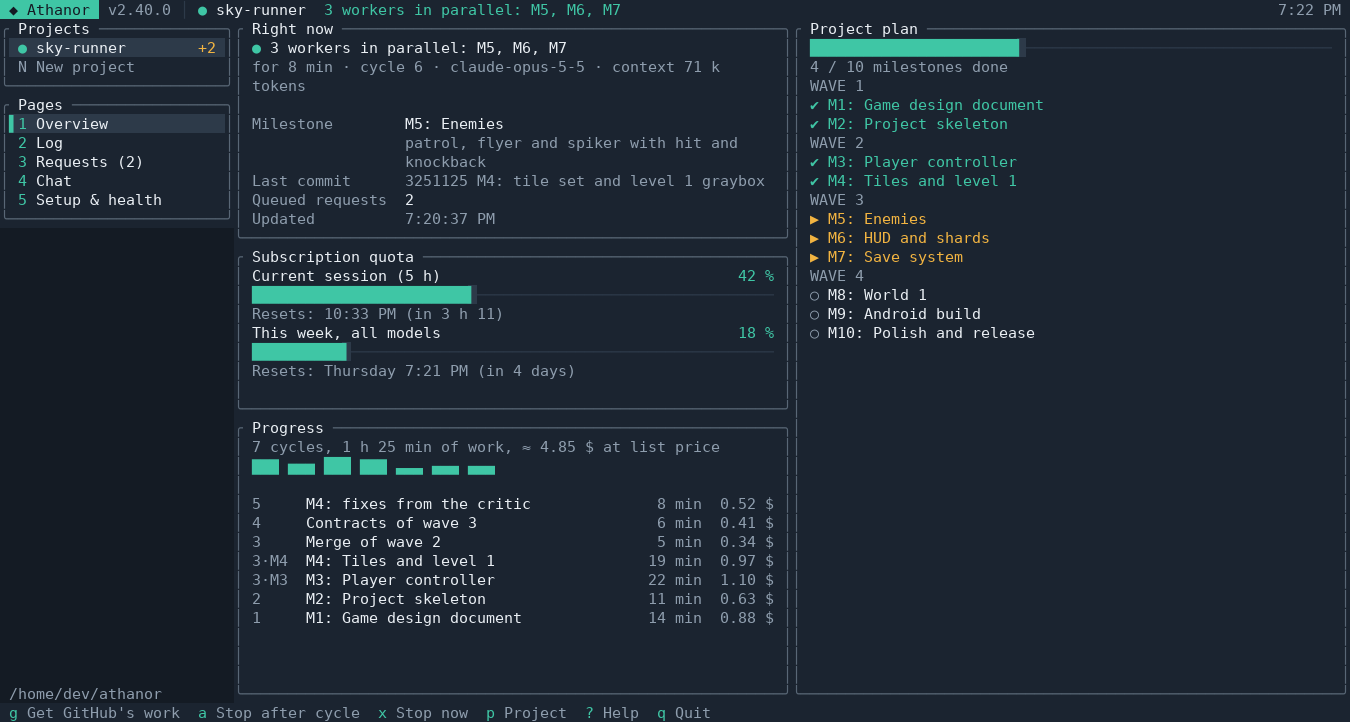
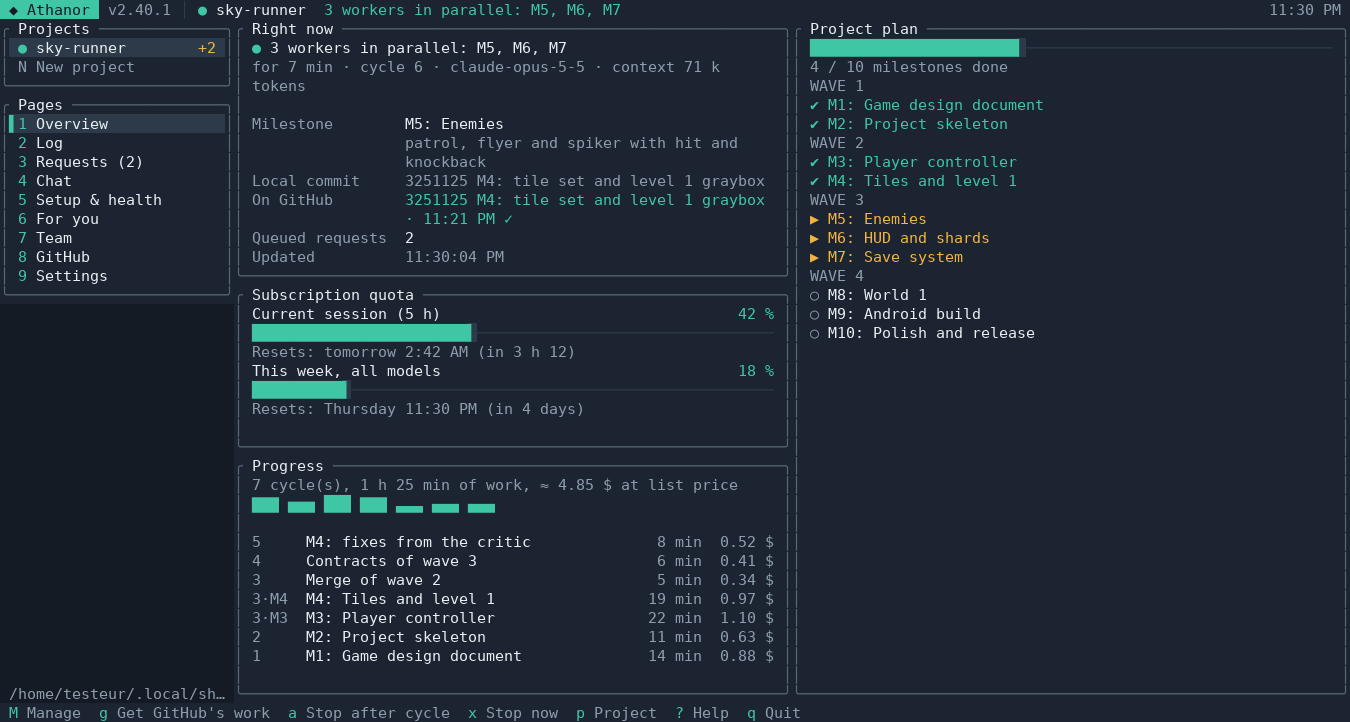
Athanor 2.40.1: push at every milestone, GitHub's last commit in the Overview, terminal keys and Enter fixes, Windows fixes

diff --git a/app/commandes.go b/app/commandes.go
@@ -16,7 +16,7 @@ import (
 )
 
 // versionAthanor: kept equal to ProductVersion of winres/athanor.rc (TestVersionAlignee).
-const versionAthanor = "2.40.0"
+const versionAthanor = "2.40.1"
 
 type sousCommande struct {
 	aide  string

diff --git a/README.fr.md b/README.fr.md
@@ -311,14 +311,14 @@ L'interface est traduite en anglais, français, espagnol, allemand, italien et p
 
 ## Dans un terminal
 
-<img src="docs/images/terminal.png" alt="Athanor dans un terminal : les projets et les pages à gauche, l'état du pilote, le quota de l'abonnement et les cycles déjà faits au milieu, le plan en vagues à droite">
+<img src="docs/images/terminal.png" alt="Athanor dans un terminal : les projets et les pages à gauche, l'état du pilote, le dernier commit de cet ordinateur et sur GitHub, le quota de l'abonnement et les cycles déjà faits au milieu, le plan en vagues à droite">
 
 Sous Linux et macOS, Athanor tourne aussi dans le terminal, comme btop ou htop : le même Athanor que sa fenêtre, sur le même serveur, donc les deux montrent toujours la même chose. Fait pour un serveur joint en SSH, un Linux sans bureau, ou simplement votre propre terminal.
 
 - **L'ouvrir** : `./athanor tui` dans le dossier d'Athanor (ou le fichier téléchargé : `./Athanor-Linux-x64 tui`). En SSH (`SSH_CONNECTION` défini), ou sur un Linux sans écran (ni `DISPLAY` ni `WAYLAND_DISPLAY`), `./athanor` seul l'ouvre. `./athanor gui` ouvre la fenêtre quoi qu'en dise la détection.
 - **Sur un serveur** : lancez Athanor avec un utilisateur normal, pas en root : Claude Code refuse de travailler en root (Installation & santé le dit, et *Démarrer* refuse). Sur un VPS neuf : `adduser NOM`, `usermod -aG sudo NOM`, connectez-vous en `NOM`, puis `./Athanor-Linux-x64`.
 - **Avec Athanor déjà ouvert** (sa fenêtre, ou un autre terminal) : `./athanor tui` montre ce même Athanor. Quand c'est le terminal qui a lancé Athanor, Athanor s'arrête avec lui (les pilotes continuent) ; *w* ouvre aussi la fenêtre, sur un ordinateur avec écran.
-- **Les pages** : *1* Suivi (l'état, le quota, les cycles et le plan), *2* Journal (en direct ; *o*, *r*, *u* filtrent outils, résultats et sous-agents, */* cherche, *f* suit), *3* Demandes (*n* une nouvelle, *e* une remarque en cours de route, *d* supprime, *Alt+↑/↓* réordonne), *4* Discuter (son champ est prêt dès l'ouverture de la page : *Entrée* envoie, *Alt+Entrée* une nouvelle ligne ; *Échap* le quitte pour *c* une nouvelle conversation et *m* le modèle, *i* y revient), *5* Installation & santé (*v* vérifie tout ; *r* répare et *I* installe tout directement dans le terminal, chaque commande affichée et sudo répondu sur place, puis Athanor revient ; *T* le jeton). *6* Pour vous (*Entrée* répond, avec les valeurs demandées dans des champs masqués ; *k* passe), *7* Équipe, *8* GitHub (*c* connecte cet ordinateur dans le terminal, *l* lie un de vos dépôts, *r* en crée un privé, *p* envoie, *a* envoi automatique, *u* délie), *9* Réglages (*Entrée* modifie un réglage, secrets masqués ; *l*, *p*, *a* la langue, la palette, l'accent ; sur ces deux pages, leurs propres lettres passent en premier, en minuscule comme en majuscule). Les formulaires ont des boutons *Enregistrer* et *Annuler* (Tab, ou un clic ; *F2* enregistre aussi) ; un formulaire refusé par le serveur reste ouvert avec la raison, et en fermer un qui contient du texte demande d'abord.
+- **Les pages** : *1* Suivi (l'état, le dernier commit ici et sur GitHub, le quota, les cycles et le plan), *2* Journal (en direct ; *o*, *r*, *u* filtrent outils, résultats et sous-agents, */* cherche, *f* suit), *3* Demandes (*n* une nouvelle, *e* une remarque en cours de route, *d* supprime, *Alt+↑/↓* réordonne), *4* Discuter (son champ est prêt dès l'ouverture de la page : *Entrée* envoie, *Alt+Entrée* une nouvelle ligne ; *Échap* le quitte pour *c* une nouvelle conversation et *m* le modèle, *i* y revient), *5* Installation & santé (*v* vérifie tout ; *r* répare et *I* installe tout directement dans le terminal, chaque commande affichée et sudo répondu sur place, puis Athanor revient ; *T* le jeton). *6* Pour vous (*Entrée* répond, avec les valeurs demandées dans des champs masqués ; *k* passe), *7* Équipe, *8* GitHub (*c* connecte cet ordinateur dans le terminal, *l* lie un de vos dépôts, *r* en crée un privé, *p* envoie, *a* envoi automatique, *u* délie), *9* Réglages (*Entrée* modifie un réglage, secrets masqués ; *l*, *p*, *a* la langue, la palette, l'accent ; sur ces deux pages, leurs propres lettres passent en premier, en minuscule comme en majuscule). Les formulaires ont des boutons *Enregistrer* et *Annuler* (Tab, ou un clic ; *F2* enregistre aussi) ; un formulaire refusé par le serveur reste ouvert avec la raison, et en fermer un qui contient du texte demande d'abord.
 - **Partout** : *s* Démarrer (avec les mêmes questions que la fenêtre : pas encore de demande, outils non installés, GitHub en avance), *a* Arrêter après le cycle (à nouveau : le laisser continuer), *x* Arrêter maintenant, *p* ou *[ ]* le projet, *N* un nouveau projet, *M* le gère (renommer, archiver, retirer de la liste ; les archivés reviennent depuis *p*), *g* Récupérer le travail de GitHub, *?* toutes les touches, *q* quitte. La souris clique projets, pages et lignes ; la molette fait défiler.
 - **Son allure** : la palette et l'accent de l'application, sa langue, en couleurs 24 bits quand le terminal dit les avoir (sinon 256). En SSH, le terminal ne le dit pas toujours : `ATHANOR_COULEURS=24 ./athanor tui` les force. Tant que le terminal fait tourner Athanor, ce qu'Athanor affiche va dans `logs/terminal.log`.
 
@@ -563,7 +563,7 @@ Oui. Rien n'est lié à un nom d'utilisateur ni à une lettre de disque : les ch
 Poussez un tag de version : GitHub compile les applications (Windows, Linux, macOS) et publie la version ([`.github/workflows/release.yml`](.github/workflows/release.yml)).
 
 ```bash
-git tag v2.40.0 && git push origin v2.40.0
+git tag v2.40.1 && git push origin v2.40.1
 ```
 
 Gardez la version de [`app/winres/athanor.rc`](app/winres/athanor.rc) et `versionAthanor` dans [`app/commandes.go`](app/commandes.go) alignées sur le tag (un test vérifie qu'elles concordent), et écrivez les nouveautés dans `docs/releases/VERSION.md` (par ex. [`docs/releases/2.31.0.md`](docs/releases/2.31.0.md)) : elles ouvrent la page de la version.

diff --git a/README.md b/README.md
@@ -311,14 +311,14 @@ The interface is translated into English, French, Spanish, German, Italian and P
 
 ## In a terminal
 
-<img src="docs/images/terminal.png" alt="Athanor in a terminal: the projects and pages on the left, the state of the pilot, the subscription quota and the cycles so far in the middle, the plan in waves on the right">
+<img src="docs/images/terminal.png" alt="Athanor in a terminal: the projects and pages on the left, the state of the pilot, the last commit of this computer and on GitHub, the subscription quota and the cycles so far in the middle, the plan in waves on the right">
 
 On Linux and macOS, Athanor also runs in the terminal, like btop or htop: the same Athanor as its window, on the same server, so both always show the same thing. Made for a server reached through SSH, a Linux without a desktop, or simply your own terminal.
 
 - **Open it**: `./athanor tui` in Athanor's folder (or the downloaded file: `./Athanor-Linux-x64 tui`). Through SSH (`SSH_CONNECTION` set), or on a Linux without a screen (no `DISPLAY` nor `WAYLAND_DISPLAY`), `./athanor` alone opens it. `./athanor gui` opens the window whatever the guess.
 - **On a server**: run Athanor as a normal user, not as root: Claude Code refuses to work as root (Setup & health says so, and *Start* refuses). On a fresh VPS: `adduser NAME`, `usermod -aG sudo NAME`, log in as `NAME`, then `./Athanor-Linux-x64`.
 - **With Athanor already open** (its window, or another terminal): `./athanor tui` shows that same Athanor. When the terminal is the one that started Athanor, Athanor stops with it (the pilots keep running); *w* opens the window as well, on a computer with a screen.
-- **Pages**: *1* Overview (the state, the quota, the cycles and the plan), *2* Log (live; *o*, *r*, *u* filter tools, results and sub-agents, */* searches, *f* follows), *3* Requests (*n* a new one, *e* a note along the way, *d* deletes, *Alt+↑/↓* reorders), *4* Chat (its field is ready as soon as the page opens: *Enter* sends, *Alt+Enter* a new line; *Esc* leaves it for *c* a new conversation and *m* the model, *i* comes back to it), *5* Setup & health (*v* checks everything, *r* repairs and *I* installs everything right in the terminal, each command shown and sudo answered there, then Athanor comes back; *T* the token). *6* For you (*Enter* answers, with the values asked for in hidden fields; *k* skips), *7* Team, *8* GitHub (*c* connects this computer in the terminal, *l* links one of your repositories, *r* creates a private one, *p* pushes, *a* automatic push, *u* unlinks), *9* Settings (*Enter* edits a setting, secrets hidden; *l*, *p*, *a* the language, the palette, the accent; on these two pages their own letters come first, small or capital). The forms have *Save* and *Cancel* buttons (Tab, or a click; *F2* saves too); a form the server refuses stays open with the reason, and closing one with text in it asks first.
+- **Pages**: *1* Overview (the state, the last commit here and on GitHub, the quota, the cycles and the plan), *2* Log (live; *o*, *r*, *u* filter tools, results and sub-agents, */* searches, *f* follows), *3* Requests (*n* a new one, *e* a note along the way, *d* deletes, *Alt+↑/↓* reorders), *4* Chat (its field is ready as soon as the page opens: *Enter* sends, *Alt+Enter* a new line; *Esc* leaves it for *c* a new conversation and *m* the model, *i* comes back to it), *5* Setup & health (*v* checks everything, *r* repairs and *I* installs everything right in the terminal, each command shown and sudo answered there, then Athanor comes back; *T* the token). *6* For you (*Enter* answers, with the values asked for in hidden fields; *k* skips), *7* Team, *8* GitHub (*c* connects this computer in the terminal, *l* links one of your repositories, *r* creates a private one, *p* pushes, *a* automatic push, *u* unlinks), *9* Settings (*Enter* edits a setting, secrets hidden; *l*, *p*, *a* the language, the palette, the accent; on these two pages their own letters come first, small or capital). The forms have *Save* and *Cancel* buttons (Tab, or a click; *F2* saves too); a form the server refuses stays open with the reason, and closing one with text in it asks first.
 - **Everywhere**: *s* Start (with the same questions as the window: no request yet, tools not installed, GitHub ahead), *a* Stop after cycle (again: let it go on), *x* Stop now, *p* or *[ ]* the project, *N* a new project, *M* manages it (rename, archive, remove from the list; the archived ones come back from *p*), *g* Get GitHub's work, *?* every key, *q* quits. The mouse clicks projects, pages and lines; the wheel scrolls.
 - **Its look**: the app's palette and accent, its language, in 24-bit colours when the terminal says it has them (else 256). Over SSH the terminal does not always say so: `ATHANOR_COULEURS=24 ./athanor tui` forces them. While the terminal serves Athanor, what Athanor prints goes to `logs/terminal.log`.
 
@@ -564,7 +564,7 @@ Yes. Nothing is tied to a user name or a drive letter: paths come from your prof
 Push a version tag and GitHub builds the apps (Windows, Linux, macOS) and publishes the release ([`.github/workflows/release.yml`](.github/workflows/release.yml)):
 
 ```bash
-git tag v2.40.0 && git push origin v2.40.0
+git tag v2.40.1 && git push origin v2.40.1
 ```
 
 Keep the version in [`app/winres/athanor.rc`](app/winres/athanor.rc) and `versionAthanor` in [`app/commandes.go`](app/commandes.go) in step with the tag (a test checks they match), and write what is new in `docs/releases/VERSION.md` (e.g. [`docs/releases/2.31.0.md`](docs/releases/2.31.0.md)): it opens the release page.

diff --git a/docs/releases/2.40.0.md b/docs/releases/2.40.0.md
@@ -6,8 +6,6 @@
 - **Repairs and the installation in front of you**: in the terminal, *Repair* and *Install everything* run right there, each command shown, sudo answered in the terminal, then Athanor comes back (no window to open on a server). *T* sets the token (after *Get a token*, it asks for it). The forms have *Save* and *Cancel* buttons, reached with Tab or a click; *F2* saves as well, for terminals that keep Ctrl+S.
 - **Every page of daily use**: also *For you* (answer Claude's tasks, values in hidden fields), *Team*, *GitHub* (connect this computer right in the terminal, link or create a repository, push, automatic push, unlink), *Settings* (Athanor's settings, the language, the palette and the accent), managing a project (rename, archive and bring back, remove from the list) and the chat's model. Closing a form with text in it asks first.
 - **On a server, a normal user**: Claude Code refuses to work as root; the *Linux* (or *macOS*) line of Setup & health now says so with the commands to create a user, and *Start* refuses with the same words. As root without sudo (a fresh server), *Install everything* runs its commands without sudo. A form the server refuses (a system folder for a project, say) stays open with the reason.
-- **GitHub at every milestone**: the automatic push goes as soon as a milestone is committed, without waiting for the end of the cycle (the parallel verification merges several), and again at the end of every cycle when something is not on GitHub yet. Before, a milestone committed in a cycle cut by the context, the time limit or the quota waited for a later cycle with a commit of its own. With the automatic push off, the log now says so. The *Overview* shows the last commit of this computer and, under it, the last one on GitHub, with why the last push did not go.
-- In the terminal, the letters of the *Settings* and *GitHub* pages come before the keys of every page, small or capital (*p* there is the palette or the push, no longer the project chooser). An Enter sent as CR LF by some terminals (its two halves arriving apart, through SSH) no longer saves at once the form it opens, and no longer answers the first launch's question by itself: the question waits for y or n.
 - The in-app Guide has a new topic, *In a terminal*; `athanor aide` lists `tui` and `gui`.
 
 ---
@@ -20,6 +18,4 @@
 - **Les réparations et l'installation sous vos yeux** : dans le terminal, *Réparer* et *Tout installer* s'y déroulent, chaque commande affichée, sudo répondu dans le terminal, puis Athanor revient (aucune fenêtre à ouvrir sur un serveur). *T* règle le jeton (après *Obtenir un jeton*, il le demande). Les formulaires ont des boutons *Enregistrer* et *Annuler*, atteints avec Tab ou un clic ; *F2* enregistre aussi, pour les terminaux qui gardent Ctrl+S.
 - **Toutes les pages du quotidien** : aussi *Pour vous* (répondre aux tâches de Claude, valeurs dans des champs masqués), *Équipe*, *GitHub* (connecter cet ordinateur directement dans le terminal, lier ou créer un dépôt, envoyer, envoi automatique, délier), *Réglages* (les réglages d'Athanor, la langue, la palette et l'accent), la gestion d'un projet (renommer, archiver et ramener, retirer de la liste) et le modèle de la discussion. Fermer un formulaire qui contient du texte demande d'abord.
 - **Sur un serveur, un utilisateur normal** : Claude Code refuse de travailler en root ; la ligne *Linux* (ou *macOS*) d'Installation & santé le dit maintenant, avec les commandes pour créer un utilisateur, et *Démarrer* refuse avec les mêmes mots. En root sans sudo (un serveur neuf), *Tout installer* lance ses commandes sans sudo. Un formulaire refusé par le serveur (un dossier système pour un projet, par exemple) reste ouvert avec la raison.
-- **GitHub à chaque jalon** : l'envoi automatique part dès qu'un jalon est commité, sans attendre la fin du cycle (la vérification parallèle en fusionne plusieurs), et de nouveau à la fin de chaque cycle quand quelque chose n'est pas encore sur GitHub. Avant, un jalon commité dans un cycle coupé par le contexte, la limite de temps ou le quota attendait un cycle suivant avec un commit à lui. Avec l'envoi automatique désactivé, le journal le dit maintenant. Le *Suivi* montre le dernier commit de cet ordinateur et, en dessous, le dernier sur GitHub, avec la raison quand le dernier envoi n'est pas parti.
-- Dans le terminal, les lettres des pages *Réglages* et *GitHub* passent avant les touches de toutes les pages, en minuscule comme en majuscule (*p* y est la palette ou l'envoi, plus le choix du projet). Une Entrée envoyée en CR LF par certains terminaux (ses deux moitiés arrivant séparément, par SSH) n'enregistre plus aussitôt le formulaire qu'elle ouvre, et ne répond plus toute seule à la question du premier lancement : la question attend o ou n.
 - Le Guide de l'application a un nouveau sujet, *Dans un terminal* ; `athanor aide` cite `tui` et `gui`.

diff --git a/docs/releases/2.40.1.md b/docs/releases/2.40.1.md
@@ -1,0 +1,17 @@
+## What's new in 2.40.1
+
+- **GitHub at every milestone**: the automatic push goes as soon as a milestone is committed, without waiting for the end of the cycle (the parallel verification merges several), and again at the end of every cycle when something is not on GitHub yet. Before, a milestone committed in a cycle cut by the context, the time limit or the quota waited for a later cycle with a commit of its own, and could stay on the computer. With the automatic push off, the log now says so.
+- **The Overview shows both commits**: the last commit of this computer and, under it, the last one on GitHub: ✓ when they are the same, "the local one is not pushed yet" otherwise, the automatic push when it is off, and why the last push did not go (refused, blocked by the secret check…). In the window and in the terminal.
+- **Terminal, the keys**: on the *Settings* and *GitHub* pages, the page's letters come before the keys of every page, small or capital: in *Settings*, *l*, *p*, *a* are the language, the palette and the accent (*p* opened the project chooser, *a* was Stop after cycle); on *GitHub*, *p* pushes, *a* switches the automatic push, *r* creates a private repository, *d* disconnects (asked first), *c* connects or moves the project onto the computer's connection. *Push now* shows the push's real result. Closing a form unchanged (a setting opened with its value) asks nothing.
+- **Terminal, Enter**: some terminals send Enter as CR LF, and through SSH its two halves may come apart: it was taken as two Enters, and the form a first one opened (a setting) was saved at once by the second. It is one Enter now. At the first launch, what was left in the terminal (that LF, the rest of a pasted block) no longer answers the question by itself: the question waits for y or n, an empty line asks again, and a refusal says that nothing was written.
+- On Windows, deleting a queued request no longer fails when the queue is being read at that moment (tried again for two seconds), and the GitHub push no longer leaves its lock file open. The terminal interface reads its translations from a copy of the sources checked out on Windows too.
+
+---
+
+## Nouveautés de la 2.40.1
+
+- **GitHub à chaque jalon** : l'envoi automatique part dès qu'un jalon est commité, sans attendre la fin du cycle (la vérification parallèle en fusionne plusieurs), et de nouveau à la fin de chaque cycle quand quelque chose n'est pas encore sur GitHub. Avant, un jalon commité dans un cycle coupé par le contexte, la limite de temps ou le quota attendait un cycle suivant avec un commit à lui, et pouvait rester sur l'ordinateur. Avec l'envoi automatique désactivé, le journal le dit maintenant.
+- **Le Suivi montre les deux commits** : le dernier commit de cet ordinateur et, en dessous, le dernier sur GitHub : ✓ quand ce sont les mêmes, « le local n'est pas encore envoyé » sinon, l'envoi automatique quand il est désactivé, et la raison quand le dernier envoi n'est pas parti (refusé, bloqué par la vérification des secrets…). Dans la fenêtre et dans le terminal.
+- **Terminal, les touches** : sur les pages *Réglages* et *GitHub*, les lettres de la page passent avant les touches de toutes les pages, en minuscule comme en majuscule : dans *Réglages*, *l*, *p*, *a* sont la langue, la palette et l'accent (*p* ouvrait le choix du projet, *a* était Arrêter après le cycle) ; sur *GitHub*, *p* envoie, *a* active ou coupe l'envoi automatique, *r* crée un dépôt privé, *d* déconnecte (après une question), *c* connecte ou passe le projet sur la connexion de l'ordinateur. *Envoyer maintenant* affiche le vrai résultat de l'envoi. Fermer un formulaire sans l'avoir modifié (un réglage ouvert avec sa valeur) ne demande rien.
+- **Terminal, Entrée** : certains terminaux envoient Entrée en CR LF, et par SSH ses deux moitiés peuvent arriver séparément : c'était compté comme deux Entrée, et le formulaire ouvert par la première (un réglage) était aussitôt enregistré par la seconde. C'est une seule Entrée maintenant. Au premier lancement, ce qui restait dans le terminal (ce LF, la fin d'un bloc collé) ne répond plus tout seul à la question : elle attend o ou n, une ligne vide la repose, et un refus dit que rien n'a été écrit.
+- Sous Windows, supprimer une demande de la file n'échoue plus quand la file est lue au même moment (nouvel essai pendant deux secondes), et l'envoi vers GitHub ne laisse plus son fichier de verrou ouvert. L'interface du terminal lit aussi ses traductions depuis une copie des sources récupérée sous Windows.
